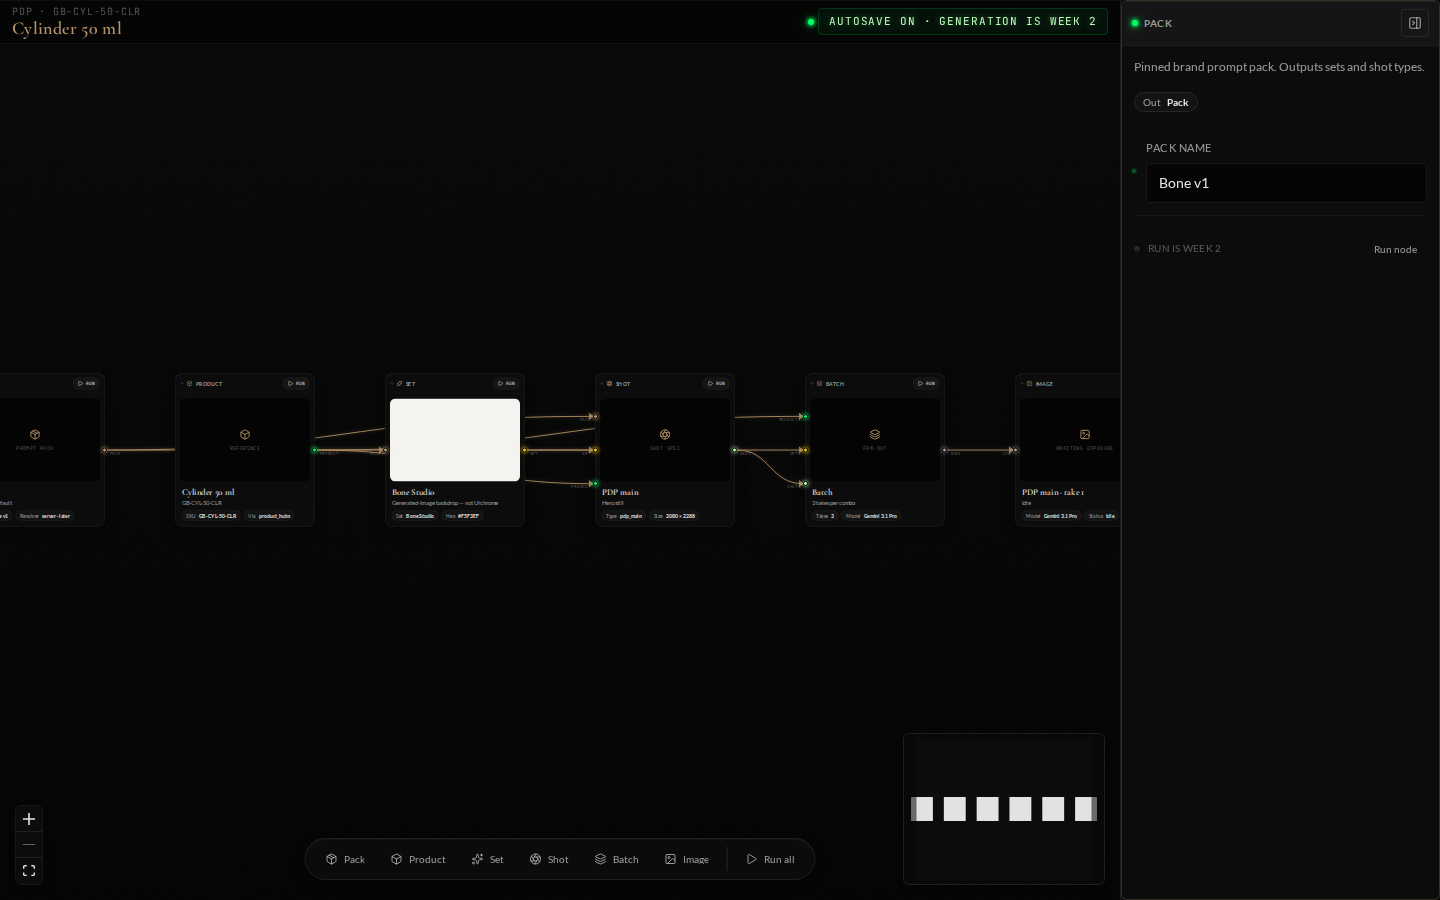
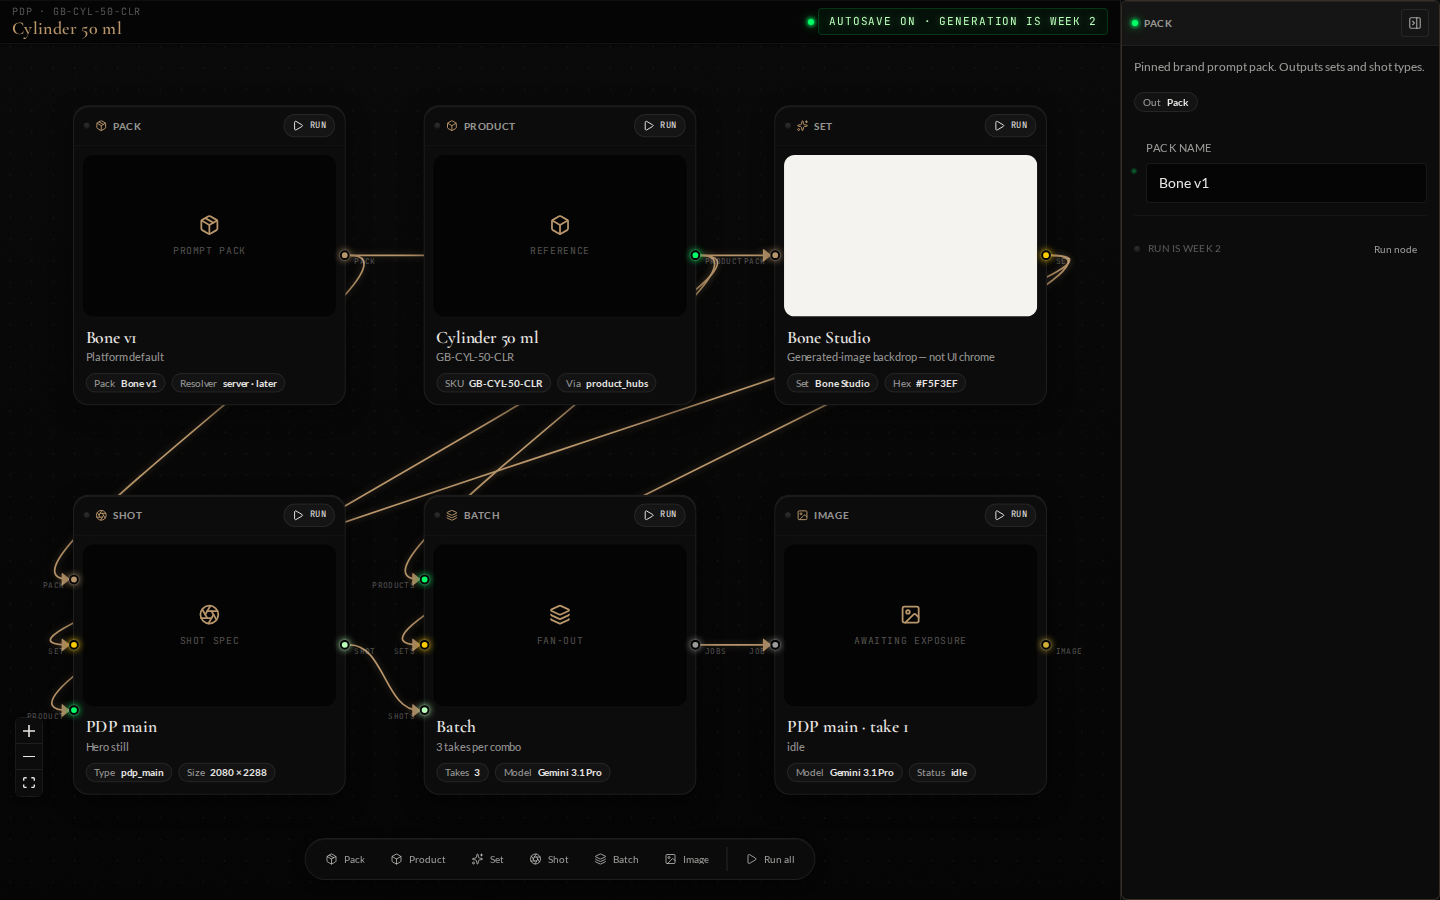
docs(canvas): overwrite after shots for the two-row fit
Re-render 1440x900 boards now that Pack/Image stay on the measured
board at minZoom 0.6, and drop the minimap so it no longer covers cards.

diff --git a/src/components/canvas/CanvasBoard.tsx b/src/components/canvas/CanvasBoard.tsx
@@ -5,7 +5,6 @@ import {
   ConnectionLineType,
   Controls,
   MarkerType,
-  MiniMap,
   ReactFlow,
   addEdge,
   useEdgesState,
@@ -276,7 +275,6 @@ export function CanvasBoard({ projectId }: CanvasBoardProps) {
               color="rgba(255, 255, 255, 0.08)"
             />
             <Controls showInteractive={false} />
-            <MiniMap pannable zoomable />
           </ReactFlow>
         }
         header={

diff --git a/src/components/canvas/CanvasUxFixture.tsx b/src/components/canvas/CanvasUxFixture.tsx
@@ -5,7 +5,6 @@ import {
   ConnectionLineType,
   Controls,
   MarkerType,
-  MiniMap,
   ReactFlow,
   useEdgesState,
   useNodesState,
@@ -187,7 +186,6 @@ export function CanvasUxFixture() {
               color="rgba(255, 255, 255, 0.08)"
             />
             <Controls showInteractive={false} />
-            <MiniMap pannable zoomable />
           </ReactFlow>
         }
         header={

diff --git a/src/styles/madison-canvas.css b/src/styles/madison-canvas.css
@@ -92,6 +92,7 @@
 }
 
 .madison-canvas .react-flow__controls {
+  bottom: 88px;
   box-shadow: var(--shadow-md) !important;
   border: 1px solid var(--darkroom-border);
   border-radius: var(--radius-lg);
